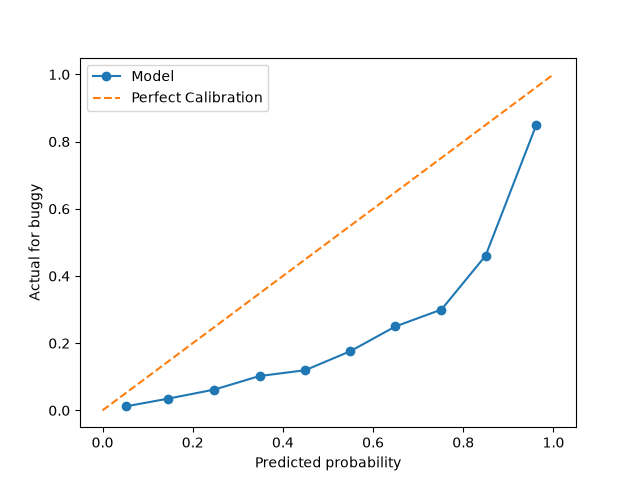
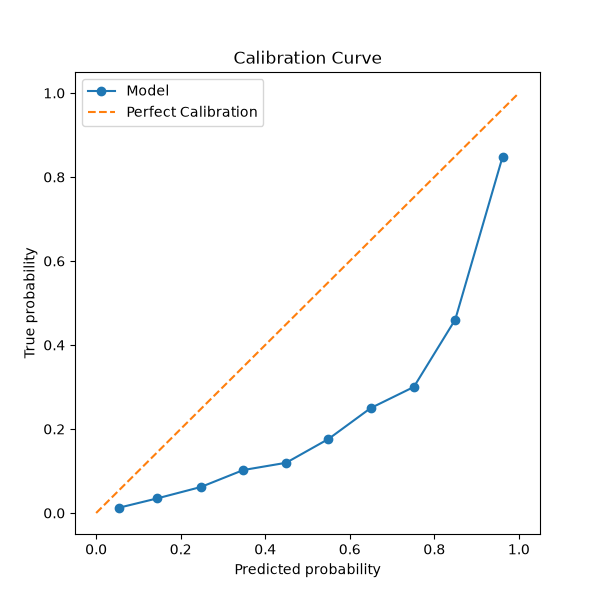
Maked MlFLow connection + experiment script (train + evaluate), and updated gitignore

diff --git a/src/bugit/models/experiment.py b/src/bugit/models/experiment.py
@@ -1,0 +1,103 @@
+from __future__ import annotations
+
+from pathlib import Path
+
+import lightgbm as lgb
+import matplotlib.pyplot as plt
+import mlflow
+import mlflow.lightgbm
+import pandas as pd
+from sklearn.calibration import calibration_curve
+from sklearn.metrics import (
+    average_precision_score,
+    f1_score,
+    precision_score,
+    recall_score,
+    roc_auc_score,
+)
+
+from bugit.data.load import KAMEI_FEATURES, LABEL_COL, load_apachejit_csv, load_train_test
+from bugit.paths import FIGURES_DIR, RAW_DATA_DIR
+
+DEFAULT_PARAMS: dict = {
+    "n_estimators": 300,
+    "num_leaves": 31,
+    "learning_rate": 0.05,
+    "is_unbalance": False,
+    "random_state": 42,
+}
+
+
+def log_calibration_plot(y_true, y_proba) -> Path:
+    prob_true, prob_pred = calibration_curve(y_true, y_proba, n_bins=10)
+    fig, ax = plt.subplots(figsize=(6, 6))
+    ax.plot(prob_pred, prob_true, marker="o", label="Model")
+    ax.plot([0, 1], [0, 1], linestyle="--", label="Perfect Calibration")
+    ax.set_xlabel("Predicted probability")
+    ax.set_ylabel("True probability")
+    ax.set_title("Calibration Curve")
+    ax.legend()
+
+    FIGURES_DIR.mkdir(parents=True, exist_ok=True)
+    fig_path = FIGURES_DIR / "calibration.png"
+    fig.savefig(fig_path)
+    plt.close(fig)
+    return fig_path
+
+
+def run_experiment(
+    experiment_name: str = "JIT_Defect_Prediction",
+    run_name: str = "lightgbm_baseline",
+    params: dict | None = None,
+) -> None:
+    params = {**DEFAULT_PARAMS, **(params or {})}
+
+    mlflow.set_experiment(experiment_name)
+
+    with mlflow.start_run(run_name=run_name):
+        train_df, _ = load_train_test()
+        test_df = load_apachejit_csv(RAW_DATA_DIR / "apachejit_test_large.csv")
+
+        X_train = train_df[list(KAMEI_FEATURES)]
+        y_train = train_df[LABEL_COL]
+
+        X_test = test_df[list(KAMEI_FEATURES)]
+        y_test = test_df[LABEL_COL]
+
+        mlflow.log_params(params)
+        mlflow.log_param("num_features", len(KAMEI_FEATURES))
+        mlflow.log_param("features", list(KAMEI_FEATURES))
+        mlflow.log_param("train_samples", len(train_df))
+        mlflow.log_param("test_samples", len(test_df))
+
+        model = lgb.LGBMClassifier(**params)
+        model.fit(X_train, y_train)
+
+        y_proba = model.predict_proba(X_test)[:, 1]
+        y_pred = (y_proba >= 0.5).astype(int)
+
+        metrics = {
+            "roc_auc": roc_auc_score(y_test, y_proba),
+            "auc_pr": average_precision_score(y_test, y_proba),
+            "precision": precision_score(y_test, y_pred),
+            "recall": recall_score(y_test, y_pred),
+            "f1": f1_score(y_test, y_pred),
+        }
+
+        mlflow.log_metrics(metrics)
+
+        print(f"Run: {run_name}")
+        for metric_name, value in metrics.items():
+            print(f"{metric_name}: {value:.4f}")
+
+        plot_path = log_calibration_plot(y_test, y_proba)
+        mlflow.log_artifact(str(plot_path), artifact_path="plots")
+
+        mlflow.lightgbm.log_model(
+            lgb_model=model.booster_,
+            name="model",
+        )
+
+
+if __name__ == "__main__":
+    run_experiment()
